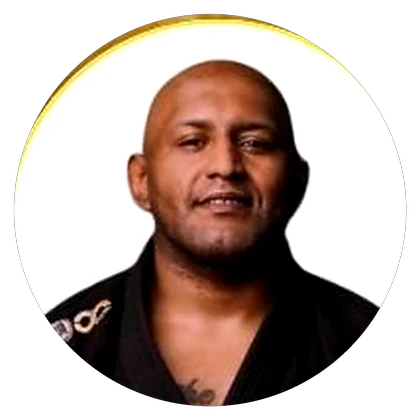
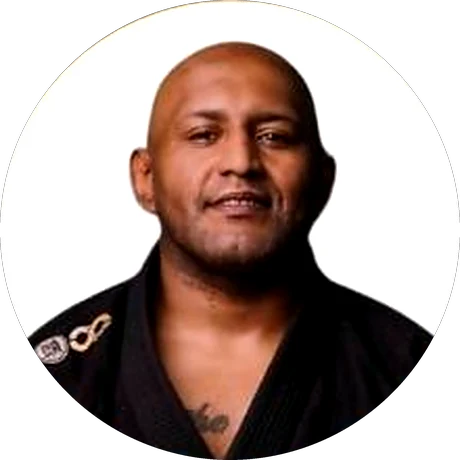
img: retratos de fonte maior e por do sol no lugar da onda
CONVIDADOS - cinco dos sete saem agora do card de 5 convidados
(1080x1920, 27/07), que traz os circulos em 226px contra os 214px do
card de sete. Mesmas fotos, tonalidade melhor - o Pedro, que era o pior,
ganha bastante. Joao Fabio e Keiny continuam vindo do card de 25/08,
que e o unico onde os dois aparecem.

Centros e raios de cada disco medidos por varredura de cor: na primeira
tentativa eu chutei o centro 25px acima do real e sobrava uma meia-lua
escura do fundo do card dentro do circulo. Saida sobe pra 460px.

Nao existe foto melhor do Pedro em lugar nenhum da biblioteca: o unico
outro retrato dele (card de 18/07) esta sobre fundo verde escuro, o que
quebraria a grade, e e a mesma foto de competicao.

O LUGAR - a onda era o pior arquivo da pagina: 800x700, foco mole,
contraste 39 e esticada 2,35x num full-bleed. Trocada pelo por do sol
sobre o mar, que casa com a copy da secao ("um fim de tarde que faz todo
mundo parar") e sobrevive muito melhor a ampliacao, porque e feito de
gradiente e nao de espuma.

O veu teal deixava o dourado do por do sol com cara de suja, entao o
escurecimento passou a ser por brilho (filter: brightness .52), que
preserva o matiz. Contraste do texto: papel 7,52 e mute 4,57 - passam.

A onda desceu pra galeria, onde aparece em 252px e os 800px sobram.

diff --git a/index.html b/index.html
@@ -445,12 +445,13 @@ blockquote::after{content:"\201D"; color:var(--ouro-quente)}
 /* ── 08 · O LUGAR ────────────────────────────────────────────────── */
 .lugar{position:relative}
 .lugar__foto{width:100%; height:clamp(300px,58vh,620px); object-fit:cover}
-/* a foto da onda é muito clara: véu de base + scrim do texto */
-.lugar::before{content:""; position:absolute; inset:0; background:rgba(1,16,15,.52); pointer-events:none}
+/* o pôr do sol é quente: escurece por brilho, não com véu verde —
+   sobrepor o teal deixava o dourado com cara de suja */
+.lugar__foto{filter:brightness(.52)}
 .lugar__texto{
   position:absolute; inset:auto 0 0;
   padding-block:clamp(4rem,11vw,7rem) clamp(2rem,6vw,4rem);
-  background:linear-gradient(0deg, rgba(1,16,15,.92) 0%, rgba(1,16,15,.70) 50%, rgba(1,16,15,.28) 85%, transparent 100%);
+  background:linear-gradient(0deg, rgba(1,16,15,.94) 0%, rgba(1,16,15,.74) 50%, rgba(1,16,15,.32) 85%, transparent 100%);
 }
 .lugar h2{color:var(--papel); max-width:20ch}
 .lugar p{color:var(--mute-esc); max-width:48ch; margin:1rem 0 0}
@@ -770,31 +771,31 @@ footer{border-top:1px solid rgba(197,177,120,.22); padding-block:clamp(2.5rem,6v
          [VALIDAR] equipe/função do João Fábio: nenhum card informa. -->
     <div class="convidados">
       <figure class="conv an" style="--i:0">
-        <img src="img/convidado-carlos.webp" alt="Retrato do professor Carlos André" width="420" height="420" loading="lazy" decoding="async">
+        <img src="img/convidado-carlos.webp" alt="Retrato do professor Carlos André" width="460" height="460" loading="lazy" decoding="async">
         <figcaption><b>Carlos André</b><span>CT Black Top Team</span></figcaption>
       </figure>
       <figure class="conv an" style="--i:1">
-        <img src="img/convidado-matheus.webp" alt="Retrato do professor Matheus Viana" width="420" height="420" loading="lazy" decoding="async">
+        <img src="img/convidado-matheus.webp" alt="Retrato do professor Matheus Viana" width="460" height="460" loading="lazy" decoding="async">
         <figcaption><b>Matheus Viana</b><span>Professor confederado CBJJ e IBJJF</span></figcaption>
       </figure>
       <figure class="conv an" style="--i:2">
-        <img src="img/convidado-pedro.webp" alt="Retrato de Pedro Wiggers" width="420" height="420" loading="lazy" decoding="async">
+        <img src="img/convidado-pedro.webp" alt="Retrato de Pedro Wiggers" width="460" height="460" loading="lazy" decoding="async">
         <figcaption><b>Pedro Wiggers</b><span>CEO e professor da Wiggers Academy</span></figcaption>
       </figure>
       <figure class="conv an" style="--i:3">
-        <img src="img/convidado-joaofabio.webp" alt="Retrato de João Fábio Paiva Cabral" width="420" height="420" loading="lazy" decoding="async">
+        <img src="img/convidado-joaofabio.webp" alt="Retrato de João Fábio Paiva Cabral" width="460" height="460" loading="lazy" decoding="async">
         <figcaption><b>João Fábio Paiva Cabral</b><span>Convidado confirmado</span></figcaption>
       </figure>
       <figure class="conv an" style="--i:4">
-        <img src="img/convidado-julyano.webp" alt="Retrato do professor Julyano Machado" width="420" height="420" loading="lazy" decoding="async">
+        <img src="img/convidado-julyano.webp" alt="Retrato do professor Julyano Machado" width="460" height="460" loading="lazy" decoding="async">
         <figcaption><b>Julyano Machado</b><span>Professor BJJ · Essence Jiu Jitsu</span></figcaption>
       </figure>
       <figure class="conv an" style="--i:5">
-        <img src="img/convidado-henrique.webp" alt="Retrato de Henrique Bitelo" width="420" height="420" loading="lazy" decoding="async">
+        <img src="img/convidado-henrique.webp" alt="Retrato de Henrique Bitelo" width="460" height="460" loading="lazy" decoding="async">
         <figcaption><b>Henrique Bitelo</b><span>Academia Ferreira Behring · EUA</span></figcaption>
       </figure>
       <figure class="conv an" style="--i:6">
-        <img src="img/convidado-keiny.webp" alt="Retrato do professor Keiny Rilho" width="420" height="420" loading="lazy" decoding="async">
+        <img src="img/convidado-keiny.webp" alt="Retrato do professor Keiny Rilho" width="460" height="460" loading="lazy" decoding="async">
         <figcaption><b>Keiny Rilho</b><span><a href="https://instagram.com/keinyrilho" target="_blank" rel="noopener">@keinyrilho</a> · Professor Jiu Jitsu</span></figcaption>
       </figure>
     </div>
@@ -826,7 +827,7 @@ footer{border-top:1px solid rgba(197,177,120,.22); padding-block:clamp(2.5rem,6v
 
 <!-- ══ 08 · O LUGAR ══════════════════════════════════════════════ -->
 <section class="lugar">
-  <img class="lugar__foto" src="img/lugar-onda.webp" alt="Surfista dropando uma onda grande na Praia do Rosa" width="1300" height="1138" loading="lazy" decoding="async">
+  <img class="lugar__foto" src="img/lugar-porsol.webp" alt="Pôr do sol sobre o mar na Praia do Rosa, com a restinga em silhueta e uma pessoa sozinha na areia" width="1800" height="1575" loading="lazy" decoding="async">
   <div class="lugar__texto">
     <div class="wrap">
       <h2 class="display an" style="font-size:var(--fs-h2)">A casa fica na Praia do Rosa</h2>
@@ -845,7 +846,7 @@ footer{border-top:1px solid rgba(197,177,120,.22); padding-block:clamp(2.5rem,6v
       <figure class="an"><img src="img/exp-piscina.webp" alt="Piscina da casa entre a mata, com pessoas na borda" width="760" height="665" loading="lazy" decoding="async"><figcaption>Descanso entre treinos</figcaption></figure>
       <figure class="an" data-d="1"><img src="img/exp-quarto.webp" alt="Quarto da hospedagem com cama de casal, teto de madeira e varanda para o verde" width="760" height="665" loading="lazy" decoding="async"><figcaption>Onde você dorme</figcaption></figure>
       <figure class="an" data-d="2"><img src="img/exp-casa.webp" alt="A casa vista do alto: piscina comprida, deck de madeira e palmeiras" width="760" height="665" loading="lazy" decoding="async"><figcaption>A casa do alto</figcaption></figure>
-      <figure class="an" data-d="3"><img src="img/exp-porsol.webp" alt="Pôr do sol sobre o mar, visto da vegetação de restinga" width="760" height="665" loading="lazy" decoding="async"><figcaption>O fim de tarde</figcaption></figure>
+      <figure class="an" data-d="3"><img src="img/exp-onda.webp" alt="Surfista dropando uma onda grande na Praia do Rosa" width="760" height="665" loading="lazy" decoding="async"><figcaption>O mar de surf</figcaption></figure>
     </div>
     <p class="divisor" style="margin-top:clamp(2.5rem,6vw,4rem)"><i></i></p>
   </div>
